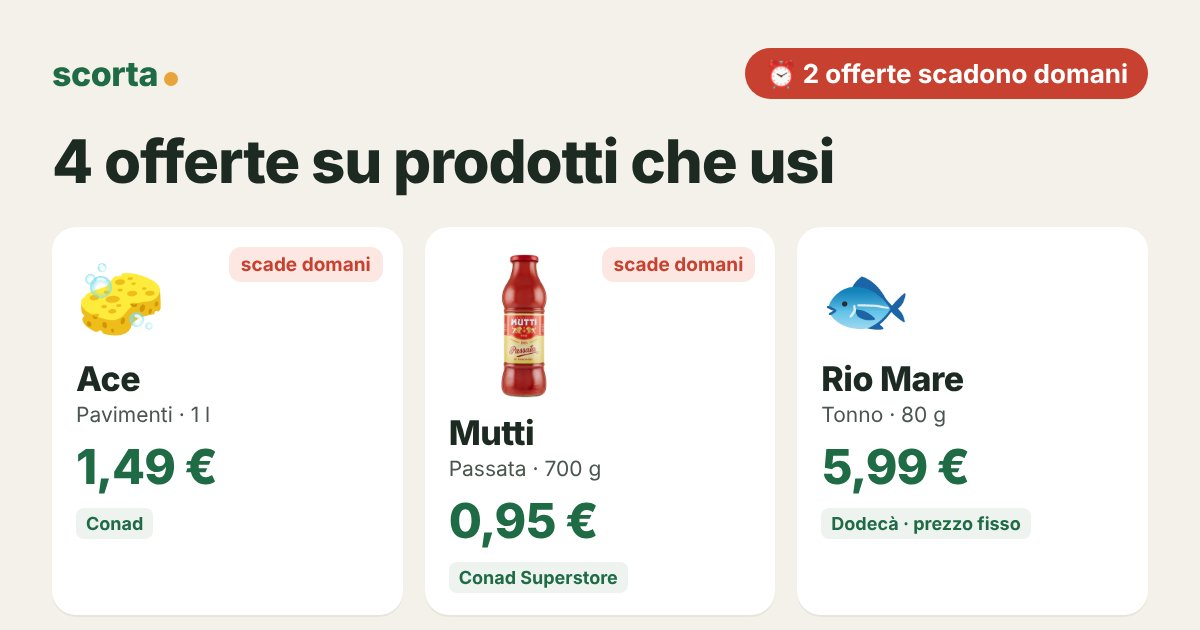
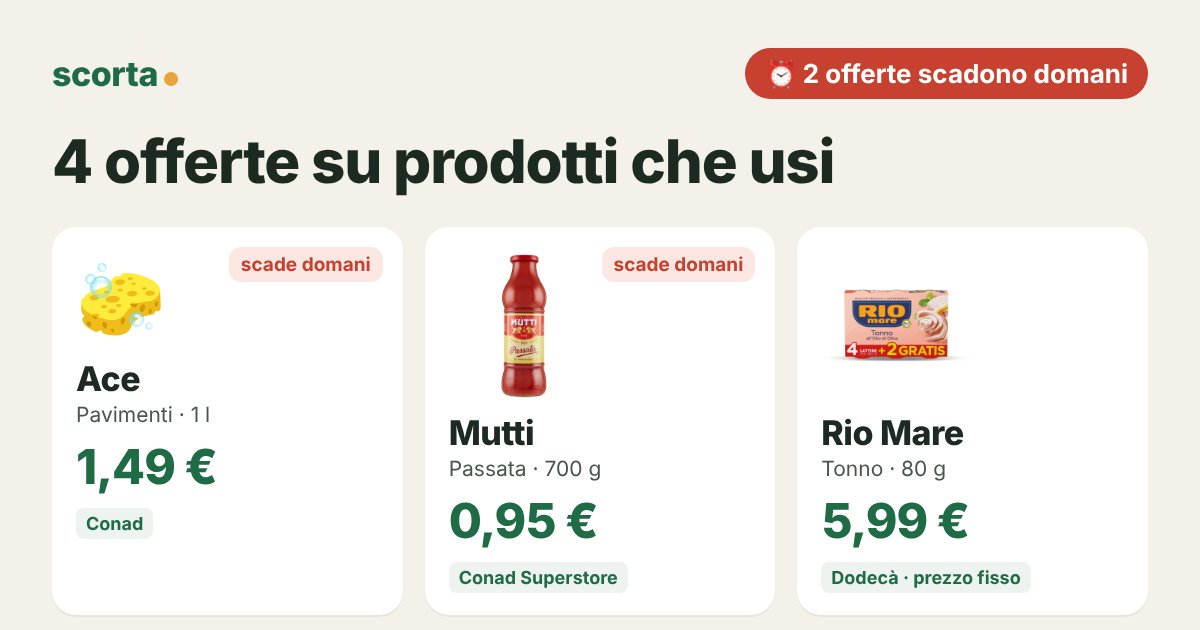
Pagine offerte 2026-11-03
Claude-Session: https://claude.ai/code/session_012BnByD7nnfoHswjF7TKs2L

Changed region(s): [[0.6783, 0.4222, 0.8633, 0.8746], [0.6783, 0.9048, 0.8633, 0.9349]]

diff --git a/o/7c19c5b6/index.html b/o/7c19c5b6/index.html
@@ -6,4 +6,4 @@
 <style>body{margin:0;font-family:-apple-system,system-ui,sans-serif;background:#F4F1EA;color:#1d2a22}main{max-width:560px;margin:auto;padding:16px}img{width:100%;border-radius:14px}
 ul{list-style:none;padding:0}li{display:flex;gap:10px;align-items:center;background:#fff;border-radius:12px;padding:10px 12px;margin:8px 0}.ic{font-size:26px}.th{width:44px;height:44px;object-fit:contain;background:#fff}li div:nth-child(2){flex:1}small{color:#6b746e}.pr{text-align:right;white-space:nowrap}s{color:#8a8f8b;font-size:13px}
 .btn{display:block;text-align:center;background:#1f6b45;color:#fff;font-weight:700;font-size:18px;padding:16px;border-radius:14px;text-decoration:none;margin:18px 0}.map{display:block;color:#1f6b45;margin:6px 0;text-decoration:none}</style></head>
-<body><main><img src="card.jpg" alt=""><a class="btn" href="https://tally.so/r/OQQV7k?f=F003&amp;a=A039,A040,A041,A042">✅ Segna cosa hai comprato</a><ul><li><span class=ic>🧽</span><div><b>Ace pavimenti igienizzante lavanda/talco 1 l</b><br><small>Conad · scade domani</small></div><div class="pr"><b>1,49 €</b></div></li><li><img class=th src=../../img/L027.jpg><div><b>Mutti passata di pomodoro 700 g</b><br><small>Conad Superstore · scade domani</small></div><div class="pr"><b>0,95 €</b></div></li><li><span class=ic>🐟</span><div><b>Rio mare Tonno all&#x27;Olio di Oliva 4 + 2 Gratis x 80 g</b><br><small>Dodecà · prezzo fisso</small></div><div class="pr"><b>5,99 €</b></div></li><li><span class=ic>🍽</span><div><b>Fairy Pastiglie Lavastoviglie Platinum All in One, Detersivo Piatti Limone, 45 Capsule 671 g</b><br><small>Dodecà · prezzo fisso</small></div><div class="pr"><b>11,69 €</b></div></li></ul><a class="map" href="https://www.google.com/maps/search/?api=1&query=Conad%20Corso%20Cirillo%2027%20Grumo%20Nevano">📍 Conad · Corso Cirillo 27, Grumo Nevano</a><a class="map" href="https://www.google.com/maps/search/?api=1&query=Conad%20Superstore%20Via%20Barraccone%20Snc%20Sant%27Arpino">📍 Conad Superstore · Via Barraccone Snc, Sant&#x27;Arpino</a><a class="map" href="https://www.google.com/maps/search/?api=1&query=Dodec%C3%A0%20Via%20Sette%20Re%2C%2077%20Arzano">📍 Dodecà · Via Sette Re, 77, Arzano</a><p><small>Prezzi e scadenze dai volantini delle insegne. Rispondi STOP su WhatsApp per non ricevere più avvisi.</small></p></main></body></html>
+<body><main><img src="card.jpg" alt=""><a class="btn" href="https://tally.so/r/OQQV7k?f=F003&amp;a=A039,A040,A041,A042">✅ Segna cosa hai comprato</a><ul><li><span class=ic>🧽</span><div><b>Ace pavimenti igienizzante lavanda/talco 1 l</b><br><small>Conad · scade domani</small></div><div class="pr"><b>1,49 €</b></div></li><li><img class=th src=../../img/L027.jpg><div><b>Mutti passata di pomodoro 700 g</b><br><small>Conad Superstore · scade domani</small></div><div class="pr"><b>0,95 €</b></div></li><li><img class=th src=../../img/deco_74M07931P348_301.jpg><div><b>Rio mare Tonno all&#x27;Olio di Oliva 4 + 2 Gratis x 80 g</b><br><small>Dodecà · prezzo fisso</small></div><div class="pr"><b>5,99 €</b></div></li><li><span class=ic>🍽</span><div><b>Fairy Pastiglie Lavastoviglie Platinum All in One, Detersivo Piatti Limone, 45 Capsule 671 g</b><br><small>Dodecà · prezzo fisso</small></div><div class="pr"><b>11,69 €</b></div></li></ul><a class="map" href="https://www.google.com/maps/search/?api=1&query=Conad%20Corso%20Cirillo%2027%20Grumo%20Nevano">📍 Conad · Corso Cirillo 27, Grumo Nevano</a><a class="map" href="https://www.google.com/maps/search/?api=1&query=Conad%20Superstore%20Via%20Barraccone%20Snc%20Sant%27Arpino">📍 Conad Superstore · Via Barraccone Snc, Sant&#x27;Arpino</a><a class="map" href="https://www.google.com/maps/search/?api=1&query=Dodec%C3%A0%20Via%20Sette%20Re%2C%2077%20Arzano">📍 Dodecà · Via Sette Re, 77, Arzano</a><p><small>Prezzi e scadenze dai volantini delle insegne. Rispondi STOP su WhatsApp per non ricevere più avvisi.</small></p></main></body></html>

diff --git a/o/c3072738/index.html b/o/c3072738/index.html
@@ -1,0 +1,9 @@
+<!DOCTYPE html><html lang="it"><head><meta charset="utf-8"><meta name="viewport" content="width=device-width,initial-scale=1">
+<title>Le tue offerte Scorta</title><meta name="robots" content="noindex">
+<meta property="og:title" content="8 offerte su prodotti che usi"><meta property="og:description" content="Le offerte Scorta sui prodotti che usi, nei negozi vicino a te.">
+<meta property="og:image" content="https://scortait.github.io/o/c3072738/card.jpg"><meta property="og:image:width" content="1200"><meta property="og:image:height" content="630"><meta property="og:image:type" content="image/jpeg">
+<meta property="og:url" content="https://scortait.github.io/o/c3072738/"><meta property="og:site_name" content="Scorta"><meta property="og:type" content="website">
+<style>body{margin:0;font-family:-apple-system,system-ui,sans-serif;background:#F4F1EA;color:#1d2a22}main{max-width:560px;margin:auto;padding:16px}img{width:100%;border-radius:14px}
+ul{list-style:none;padding:0}li{display:flex;gap:10px;align-items:center;background:#fff;border-radius:12px;padding:10px 12px;margin:8px 0}.ic{font-size:26px}.th{width:44px;height:44px;object-fit:contain;background:#fff}li div:nth-child(2){flex:1}small{color:#6b746e}.pr{text-align:right;white-space:nowrap}s{color:#8a8f8b;font-size:13px}
+.btn{display:block;text-align:center;background:#1f6b45;color:#fff;font-weight:700;font-size:18px;padding:16px;border-radius:14px;text-decoration:none;margin:18px 0}.map{display:block;color:#1f6b45;margin:6px 0;text-decoration:none}</style></head>
+<body><main><img src="card.jpg" alt=""><a class="btn" href="https://tally.so/r/OQQV7k?f=F011&amp;a=A123,A124,A125,A126,A127,A128,A129,A130">✅ Segna cosa hai comprato</a><ul><li><img class=th src=../../img/deco_74M07931P004_301.jpg><div><b>Rummo pasta di semola varie trafile 500 g</b><br><small>Decò Maxistore · fino al 12/11</small></div><div class="pr"><b>0,69 €</b></div></li><li><img class=th src=../../img/deco_74M07931P344_301.jpg><div><b>Borbone caffè miscela Decisa 100+20 cialde</b><br><small>Decò Maxistore · fino al 12/11</small></div><div class="pr"><b>12,90 €</b></div></li><li><img class=th src=../../img/deco_74M07931P258_301.jpg><div><b>Orogel zucchine a fette 450 g</b><br><small>Decò Maxistore · fino al 12/11</small></div><div class="pr"><b>1,49 €</b></div></li><li><img class=th src=../../img/deco_74M07931P245_301.jpg><div><b>Decò legumi ceci / borlotti / cannellini / tondini 360 g</b><br><small>Decò Maxistore · fino al 12/11</small></div><div class="pr"><b>0,89 €</b></div></li><li><img class=th src=../../img/deco_74M07931P428_301.jpg><div><b>Regina carta igienica Camomilla 8 rotoli</b><br><small>Decò Maxistore · fino al 12/11</small></div><div class="pr"><b>2,99 €</b></div></li><li><img class=th src=../../img/eurospin_10770901.jpg><div><b>Dolciando frollini con cacao e nocciole 700 g</b><br><small>Eurospin · dal 5/11 al 15/11</small></div><div class="pr"><s>2,19 €</s> <b>1,69 €</b></div></li><li><img class=th src=../../img/eurospin_18556901.jpg><div><b>Blues cola lemon 1,5 l</b><br><small>Eurospin · dal 5/11 al 15/11</small></div><div class="pr"><s>0,79 €</s> <b>0,59 €</b></div></li><li><img class=th src=../../img/eurospin_14271801.jpg><div><b>Delizie Dal Sole spinaci fogliolina 450 g</b><br><small>Eurospin · dal 5/11 al 15/11</small></div><div class="pr"><s>1,19 €</s> <b>0,99 €</b></div></li></ul><a class="map" href="https://www.google.com/maps/search/?api=1&query=Dec%C3%B2%20Maxistore%20Viale%20Giochi%20del%20Mediterraneo%20Napoli">📍 Decò Maxistore · Viale Giochi del Mediterraneo, Napoli</a><a class="map" href="https://www.google.com/maps/search/?api=1&query=Eurospin%20Via%20Cavalleggeri%20d%27Aosta%2C%2011%20Napoli">📍 Eurospin · Via Cavalleggeri d&#x27;Aosta, 11, Napoli</a><p><small>Prezzi e scadenze dai volantini delle insegne. Rispondi STOP su WhatsApp per non ricevere più avvisi.</small></p></main></body></html>

diff --git a/o/7c9cdeb2/index.html b/o/7c9cdeb2/index.html
@@ -1,0 +1,9 @@
+<!DOCTYPE html><html lang="it"><head><meta charset="utf-8"><meta name="viewport" content="width=device-width,initial-scale=1">
+<title>Le tue offerte Scorta</title><meta name="robots" content="noindex">
+<meta property="og:title" content="8 offerte su prodotti che usi"><meta property="og:description" content="Le offerte Scorta sui prodotti che usi, nei negozi vicino a te.">
+<meta property="og:image" content="https://scortait.github.io/o/7c9cdeb2/card.jpg"><meta property="og:image:width" content="1200"><meta property="og:image:height" content="630"><meta property="og:image:type" content="image/jpeg">
+<meta property="og:url" content="https://scortait.github.io/o/7c9cdeb2/"><meta property="og:site_name" content="Scorta"><meta property="og:type" content="website">
+<style>body{margin:0;font-family:-apple-system,system-ui,sans-serif;background:#F4F1EA;color:#1d2a22}main{max-width:560px;margin:auto;padding:16px}img{width:100%;border-radius:14px}
+ul{list-style:none;padding:0}li{display:flex;gap:10px;align-items:center;background:#fff;border-radius:12px;padding:10px 12px;margin:8px 0}.ic{font-size:26px}.th{width:44px;height:44px;object-fit:contain;background:#fff}li div:nth-child(2){flex:1}small{color:#6b746e}.pr{text-align:right;white-space:nowrap}s{color:#8a8f8b;font-size:13px}
+.btn{display:block;text-align:center;background:#1f6b45;color:#fff;font-weight:700;font-size:18px;padding:16px;border-radius:14px;text-decoration:none;margin:18px 0}.map{display:block;color:#1f6b45;margin:6px 0;text-decoration:none}</style></head>
+<body><main><img src="card.jpg" alt=""><a class="btn" href="https://tally.so/r/OQQV7k?f=F003&amp;a=A087,A088,A089,A090,A091,A092,A093,A094">✅ Segna cosa hai comprato</a><ul><li><img class=th src=../../img/L027.jpg><div><b>Mutti passata di pomodoro 700 g</b><br><small>Decò Supermercato · fino al 12/11</small></div><div class="pr"><b>1,00 €</b></div></li><li><img class=th src=../../img/deco_74M07931P348_301.jpg><div><b>Rio Mare tonno all&#x27;olio di oliva 4+2 gratis x 80 g</b><br><small>Decò Supermercato · fino al 12/11</small></div><div class="pr"><b>5,99 €</b></div></li><li><img class=th src=../../img/deco_74M07931P298_301.jpg><div><b>Coca-Cola / Fanta / Sprite vari tipi 6x33 cl</b><br><small>Decò Supermercato · fino al 12/11</small></div><div class="pr"><b>3,99 €</b></div></li><li><img class=th src=../../img/deco_74M07931P330_301.jpg><div><b>Svelto Titanium fiori di pesco / fresh lime / limone 650 ml</b><br><small>Decò Supermercato · fino al 12/11</small></div><div class="pr"><b>1,79 €</b></div></li><li><span class=ic>🧽</span><div><b>Ace pavimenti igienizzante talco / lavanda / stop germs 1 l</b><br><small>Decò Supermercato · fino al 12/11</small></div><div class="pr"><b>1,20 €</b></div></li><li><img class=th src=../../img/deco_74M07931P211_301.jpg><div><b>Granarolo latte UHT parzialmente scremato 1 l</b><br><small>Decò Supermercato · fino al 12/11</small></div><div class="pr"><b>0,99 €</b></div></li><li><img class=th src=../../img/deco_74M07931P253_301.jpg><div><b>Findus pisellini primavera 1,2 kg</b><br><small>Decò Supermercato · fino al 12/11</small></div><div class="pr"><b>5,39 €</b></div></li><li><span class=ic>🍪</span><div><b>Mulino Bianco Spicchi di Sole Biscotti Dorati al Forno 400g</b><br><small>Dodecà · prezzo fisso</small></div><div class="pr"><b>1,69 €</b></div></li></ul><a class="map" href="https://www.google.com/maps/search/?api=1&query=Dec%C3%B2%20Supermercato%20Viale%20Pimentel%20de%20Fonseca%20Eleonora%2C%2014%20Grumo%20Nevano">📍 Decò Supermercato · Viale Pimentel de Fonseca Eleonora, 14, Grumo Nevano</a><a class="map" href="https://www.google.com/maps/search/?api=1&query=Dodec%C3%A0%20Via%20Sette%20Re%2C%2077%20Arzano">📍 Dodecà · Via Sette Re, 77, Arzano</a><p><small>Prezzi e scadenze dai volantini delle insegne. Rispondi STOP su WhatsApp per non ricevere più avvisi.</small></p></main></body></html>

diff --git a/o/96d8345a/index.html b/o/96d8345a/index.html
@@ -1,0 +1,9 @@
+<!DOCTYPE html><html lang="it"><head><meta charset="utf-8"><meta name="viewport" content="width=device-width,initial-scale=1">
+<title>Le tue offerte Scorta</title><meta name="robots" content="noindex">
+<meta property="og:title" content="6 offerte su prodotti che usi"><meta property="og:description" content="Le offerte Scorta sui prodotti che usi, nei negozi vicino a te.">
+<meta property="og:image" content="https://scortait.github.io/o/96d8345a/card.jpg"><meta property="og:image:width" content="1200"><meta property="og:image:height" content="630"><meta property="og:image:type" content="image/jpeg">
+<meta property="og:url" content="https://scortait.github.io/o/96d8345a/"><meta property="og:site_name" content="Scorta"><meta property="og:type" content="website">
+<style>body{margin:0;font-family:-apple-system,system-ui,sans-serif;background:#F4F1EA;color:#1d2a22}main{max-width:560px;margin:auto;padding:16px}img{width:100%;border-radius:14px}
+ul{list-style:none;padding:0}li{display:flex;gap:10px;align-items:center;background:#fff;border-radius:12px;padding:10px 12px;margin:8px 0}.ic{font-size:26px}.th{width:44px;height:44px;object-fit:contain;background:#fff}li div:nth-child(2){flex:1}small{color:#6b746e}.pr{text-align:right;white-space:nowrap}s{color:#8a8f8b;font-size:13px}
+.btn{display:block;text-align:center;background:#1f6b45;color:#fff;font-weight:700;font-size:18px;padding:16px;border-radius:14px;text-decoration:none;margin:18px 0}.map{display:block;color:#1f6b45;margin:6px 0;text-decoration:none}</style></head>
+<body><main><img src="card.jpg" alt=""><a class="btn" href="https://tally.so/r/OQQV7k?f=F007&amp;a=A108,A109,A110,A111,A112,A113">✅ Segna cosa hai comprato</a><ul><li><img class=th src=../../img/L027.jpg><div><b>Mutti passata di pomodoro 700 g</b><br><small>Decò Supermercato · fino al 12/11</small></div><div class="pr"><b>1,00 €</b></div></li><li><span class=ic>🍝</span><div><b>De Cecco pasta di semola Le Specialità varie trafile 500 g</b><br><small>Eté · fino al 12/11</small></div><div class="pr"><b>1,49 €</b></div></li><li><span class=ic>🐟</span><div><b>Nostromo tonno Leggero EVO 3x60 g</b><br><small>Eté · fino al 12/11</small></div><div class="pr"><b>2,39 €</b></div></li><li><span class=ic>🍪</span><div><b>Nutella Ferrero 450 g</b><br><small>Eté · fino al 12/11</small></div><div class="pr"><b>3,99 €</b></div></li><li><span class=ic>🍪</span><div><b>Balocco biscotti Saracene / Faccine / Girandole / Triangolosi / Gocciolotti / Fagottini 700 g</b><br><small>Eté · fino al 12/11</small></div><div class="pr"><b>2,39 €</b></div></li><li><span class=ic>💧</span><div><b>San Benedetto Acqua Naturale dal Parco della Majella Ecogreen 6 x 2 L</b><br><small>Dodecà · prezzo fisso</small></div><div class="pr"><b>2,28 €</b></div></li></ul><a class="map" href="https://www.google.com/maps/search/?api=1&query=Dec%C3%B2%20Supermercato%20Via%20Napoli%2C%20127%20Mugnano%20di%20Napoli">📍 Decò Supermercato · Via Napoli, 127, Mugnano di Napoli</a><a class="map" href="https://www.google.com/maps/search/?api=1&query=Et%C3%A9%20Via%20Circumvallazione%20Esterna%2C%2020/A%20Melito%20di%20Napoli">📍 Eté · Via Circumvallazione Esterna, 20/A, Melito di Napoli</a><a class="map" href="https://www.google.com/maps/search/?api=1&query=Dodec%C3%A0%20Via%20Giuseppe%20di%20Vittorio%20SNC%20Mugnano%20di%20Napoli">📍 Dodecà · Via Giuseppe di Vittorio SNC, Mugnano di Napoli</a><p><small>Prezzi e scadenze dai volantini delle insegne. Rispondi STOP su WhatsApp per non ricevere più avvisi.</small></p></main></body></html>

diff --git a/o/c72d6d3a/index.html b/o/c72d6d3a/index.html
@@ -1,0 +1,9 @@
+<!DOCTYPE html><html lang="it"><head><meta charset="utf-8"><meta name="viewport" content="width=device-width,initial-scale=1">
+<title>Le tue offerte Scorta</title><meta name="robots" content="noindex">
+<meta property="og:title" content="6 offerte su prodotti che usi"><meta property="og:description" content="Le offerte Scorta sui prodotti che usi, nei negozi vicino a te.">
+<meta property="og:image" content="https://scortait.github.io/o/c72d6d3a/card.jpg"><meta property="og:image:width" content="1200"><meta property="og:image:height" content="630"><meta property="og:image:type" content="image/jpeg">
+<meta property="og:url" content="https://scortait.github.io/o/c72d6d3a/"><meta property="og:site_name" content="Scorta"><meta property="og:type" content="website">
+<style>body{margin:0;font-family:-apple-system,system-ui,sans-serif;background:#F4F1EA;color:#1d2a22}main{max-width:560px;margin:auto;padding:16px}img{width:100%;border-radius:14px}
+ul{list-style:none;padding:0}li{display:flex;gap:10px;align-items:center;background:#fff;border-radius:12px;padding:10px 12px;margin:8px 0}.ic{font-size:26px}.th{width:44px;height:44px;object-fit:contain;background:#fff}li div:nth-child(2){flex:1}small{color:#6b746e}.pr{text-align:right;white-space:nowrap}s{color:#8a8f8b;font-size:13px}
+.btn{display:block;text-align:center;background:#1f6b45;color:#fff;font-weight:700;font-size:18px;padding:16px;border-radius:14px;text-decoration:none;margin:18px 0}.map{display:block;color:#1f6b45;margin:6px 0;text-decoration:none}</style></head>
+<body><main><img src="card.jpg" alt=""><a class="btn" href="https://tally.so/r/OQQV7k?f=F012&amp;a=A131,A132,A133,A134,A135,A136">✅ Segna cosa hai comprato</a><ul><li><span class=ic>🍝</span><div><b>La Molisana pasta di semola formati normali 500 g</b><br><small>Conad Superstore · scade domani</small></div><div class="pr"><b>0,79 €</b></div></li><li><img class=th src=../../img/deco_74M07931P316_301.jpg><div><b>Neutro Roberts bagnodoccia varie profumazioni 450 ml</b><br><small>Decò Superstore · fino al 12/11</small></div><div class="pr"><b>1,89 €</b></div></li><li><img class=th src=../../img/deco_74M07931P428_301.jpg><div><b>Regina carta igienica Camomilla 8 rotoli</b><br><small>Decò Superstore · fino al 12/11</small></div><div class="pr"><b>2,99 €</b></div></li><li><span class=ic>🐟</span><div><b>Rio Mare filetti di tonno vari gusti 130 g</b><br><small>Eté · fino al 12/11</small></div><div class="pr"><b>3,39 €</b></div></li><li><span class=ic>🍪</span><div><b>Nutella Ferrero 450 g</b><br><small>Eté · fino al 12/11</small></div><div class="pr"><b>3,99 €</b></div></li><li><span class=ic>🧴</span><div><b>Sunsilk shampoo varie profumazioni 250 ml</b><br><small>Eté · fino al 12/11</small></div><div class="pr"><b>2,19 €</b></div></li></ul><a class="map" href="https://www.google.com/maps/search/?api=1&query=Conad%20Superstore%20Via%20Barraccone%20Snc%20Sant%27Arpino">📍 Conad Superstore · Via Barraccone Snc, Sant&#x27;Arpino</a><a class="map" href="https://www.google.com/maps/search/?api=1&query=Dec%C3%B2%20Superstore%20Via%20Salvatore%20Lanzano%20Orta%20di%20Atella">📍 Decò Superstore · Via Salvatore Lanzano, Orta di Atella</a><a class="map" href="https://www.google.com/maps/search/?api=1&query=Et%C3%A9%20Via%20M.%20Atellani%2C%202%20Sant%27Arpino">📍 Eté · Via M. Atellani, 2, Sant&#x27;Arpino</a><p><small>Prezzi e scadenze dai volantini delle insegne. Rispondi STOP su WhatsApp per non ricevere più avvisi.</small></p></main></body></html>

diff --git a/o/39e07f55/index.html b/o/39e07f55/index.html
@@ -1,0 +1,9 @@
+<!DOCTYPE html><html lang="it"><head><meta charset="utf-8"><meta name="viewport" content="width=device-width,initial-scale=1">
+<title>Le tue offerte Scorta</title><meta name="robots" content="noindex">
+<meta property="og:title" content="5 offerte su prodotti che usi"><meta property="og:description" content="Le offerte Scorta sui prodotti che usi, nei negozi vicino a te.">
+<meta property="og:image" content="https://scortait.github.io/o/39e07f55/card.jpg"><meta property="og:image:width" content="1200"><meta property="og:image:height" content="630"><meta property="og:image:type" content="image/jpeg">
+<meta property="og:url" content="https://scortait.github.io/o/39e07f55/"><meta property="og:site_name" content="Scorta"><meta property="og:type" content="website">
+<style>body{margin:0;font-family:-apple-system,system-ui,sans-serif;background:#F4F1EA;color:#1d2a22}main{max-width:560px;margin:auto;padding:16px}img{width:100%;border-radius:14px}
+ul{list-style:none;padding:0}li{display:flex;gap:10px;align-items:center;background:#fff;border-radius:12px;padding:10px 12px;margin:8px 0}.ic{font-size:26px}.th{width:44px;height:44px;object-fit:contain;background:#fff}li div:nth-child(2){flex:1}small{color:#6b746e}.pr{text-align:right;white-space:nowrap}s{color:#8a8f8b;font-size:13px}
+.btn{display:block;text-align:center;background:#1f6b45;color:#fff;font-weight:700;font-size:18px;padding:16px;border-radius:14px;text-decoration:none;margin:18px 0}.map{display:block;color:#1f6b45;margin:6px 0;text-decoration:none}</style></head>
+<body><main><img src="card.jpg" alt=""><a class="btn" href="https://tally.so/r/OQQV7k?f=F004&amp;a=A095,A096,A097,A098,A099">✅ Segna cosa hai comprato</a><ul><li><span class=ic>🧴</span><div><b>Felce Azzurra bagnoschiuma 650 ml, -24%</b><br><small>Lidl · scade domani</small></div><div class="pr"><b>1,89 €</b></div></li><li><img class=th src=../../img/deco_74M07931P040_301.jpg><div><b>Finish Powerball Ultimate Plus 48 tabs</b><br><small>Decò Supermercato · fino al 12/11</small></div><div class="pr"><b>8,59 €</b></div></li><li><img class=th src=../../img/deco_74M07931P039_301.jpg><div><b>Foxy carta igienica Gran Trapuntata 4 veli 4 rotoli</b><br><small>Decò Supermercato · fino al 12/11</small></div><div class="pr"><b>1,99 €</b></div></li><li><img class=th src=../../img/deco_74M07931P253_301.jpg><div><b>Findus pisellini primavera 1,2 kg</b><br><small>Decò Supermercato · fino al 12/11</small></div><div class="pr"><b>5,39 €</b></div></li><li><span class=ic>🫧</span><div><b>Lenor ammorbidente risveglio primaverile / oro e fiori di vaniglia 55 lavaggi 1,155 l</b><br><small>MD · fino al 15/11</small></div><div class="pr"><s>5,69 €</s> <b>3,99 €</b></div></li></ul><a class="map" href="https://www.google.com/maps/search/?api=1&query=Lidl%20Via%20Giugliano%20Mugnano%2C%20137%20Villaricca">📍 Lidl · Via Giugliano Mugnano, 137, Villaricca</a><a class="map" href="https://www.google.com/maps/search/?api=1&query=Dec%C3%B2%20Supermercato%20Via%20Ernesto%20Che%20Guevara%2C%2036%20Marano%20di%20Napoli">📍 Decò Supermercato · Via Ernesto Che Guevara, 36, Marano di Napoli</a><a class="map" href="https://www.google.com/maps/search/?api=1&query=MD%20C.SO%20ITALIA%2055%20Marano%20di%20Napoli">📍 MD · C.SO ITALIA 55, Marano di Napoli</a><p><small>Prezzi e scadenze dai volantini delle insegne. Rispondi STOP su WhatsApp per non ricevere più avvisi.</small></p></main></body></html>

diff --git a/o/22da7bd9/index.html b/o/22da7bd9/index.html
@@ -1,0 +1,9 @@
+<!DOCTYPE html><html lang="it"><head><meta charset="utf-8"><meta name="viewport" content="width=device-width,initial-scale=1">
+<title>Le tue offerte Scorta</title><meta name="robots" content="noindex">
+<meta property="og:title" content="4 offerte su prodotti che usi"><meta property="og:description" content="Le offerte Scorta sui prodotti che usi, nei negozi vicino a te.">
+<meta property="og:image" content="https://scortait.github.io/o/22da7bd9/card.jpg"><meta property="og:image:width" content="1200"><meta property="og:image:height" content="630"><meta property="og:image:type" content="image/jpeg">
+<meta property="og:url" content="https://scortait.github.io/o/22da7bd9/"><meta property="og:site_name" content="Scorta"><meta property="og:type" content="website">
+<style>body{margin:0;font-family:-apple-system,system-ui,sans-serif;background:#F4F1EA;color:#1d2a22}main{max-width:560px;margin:auto;padding:16px}img{width:100%;border-radius:14px}
+ul{list-style:none;padding:0}li{display:flex;gap:10px;align-items:center;background:#fff;border-radius:12px;padding:10px 12px;margin:8px 0}.ic{font-size:26px}.th{width:44px;height:44px;object-fit:contain;background:#fff}li div:nth-child(2){flex:1}small{color:#6b746e}.pr{text-align:right;white-space:nowrap}s{color:#8a8f8b;font-size:13px}
+.btn{display:block;text-align:center;background:#1f6b45;color:#fff;font-weight:700;font-size:18px;padding:16px;border-radius:14px;text-decoration:none;margin:18px 0}.map{display:block;color:#1f6b45;margin:6px 0;text-decoration:none}</style></head>
+<body><main><img src="card.jpg" alt=""><a class="btn" href="https://tally.so/r/OQQV7k?f=F005&amp;a=A100,A101,A102,A103">✅ Segna cosa hai comprato</a><ul><li><img class=th src=../../img/deco_74M07931P330_301.jpg><div><b>Svelto Titanium fiori di pesco / fresh lime / limone 650 ml</b><br><small>Decò Market · fino al 12/11</small></div><div class="pr"><b>1,79 €</b></div></li><li><img class=th src=../../img/deco_74M07931P038_301.jpg><div><b>Mentadent dentifricio 2x75 ml</b><br><small>Decò Market · fino al 12/11</small></div><div class="pr"><b>2,69 €</b></div></li><li><img class=th src=../../img/deco_74M07931P253_301.jpg><div><b>Findus pisellini primavera 1,2 kg</b><br><small>Decò Market · fino al 12/11</small></div><div class="pr"><b>5,39 €</b></div></li><li><img class=th src=../../img/deco_74M07931P428_301.jpg><div><b>Regina carta igienica Camomilla 8 rotoli</b><br><small>Decò Supermercato · fino al 12/11</small></div><div class="pr"><b>2,99 €</b></div></li></ul><a class="map" href="https://www.google.com/maps/search/?api=1&query=Dec%C3%B2%20Market%20Via%20Vincenzo%20Arangio%20Ruiz%2C%2065%20Napoli">📍 Decò Market · Via Vincenzo Arangio Ruiz, 65, Napoli</a><a class="map" href="https://www.google.com/maps/search/?api=1&query=Dec%C3%B2%20Supermercato%20Via%20Consalvo%2C%2093%20Napoli">📍 Decò Supermercato · Via Consalvo, 93, Napoli</a><p><small>Prezzi e scadenze dai volantini delle insegne. Rispondi STOP su WhatsApp per non ricevere più avvisi.</small></p></main></body></html>

diff --git a/o/e712f2d4/index.html b/o/e712f2d4/index.html
@@ -1,0 +1,9 @@
+<!DOCTYPE html><html lang="it"><head><meta charset="utf-8"><meta name="viewport" content="width=device-width,initial-scale=1">
+<title>Le tue offerte Scorta</title><meta name="robots" content="noindex">
+<meta property="og:title" content="4 offerte su prodotti che usi"><meta property="og:description" content="Le offerte Scorta sui prodotti che usi, nei negozi vicino a te.">
+<meta property="og:image" content="https://scortait.github.io/o/e712f2d4/card.jpg"><meta property="og:image:width" content="1200"><meta property="og:image:height" content="630"><meta property="og:image:type" content="image/jpeg">
+<meta property="og:url" content="https://scortait.github.io/o/e712f2d4/"><meta property="og:site_name" content="Scorta"><meta property="og:type" content="website">
+<style>body{margin:0;font-family:-apple-system,system-ui,sans-serif;background:#F4F1EA;color:#1d2a22}main{max-width:560px;margin:auto;padding:16px}img{width:100%;border-radius:14px}
+ul{list-style:none;padding:0}li{display:flex;gap:10px;align-items:center;background:#fff;border-radius:12px;padding:10px 12px;margin:8px 0}.ic{font-size:26px}.th{width:44px;height:44px;object-fit:contain;background:#fff}li div:nth-child(2){flex:1}small{color:#6b746e}.pr{text-align:right;white-space:nowrap}s{color:#8a8f8b;font-size:13px}
+.btn{display:block;text-align:center;background:#1f6b45;color:#fff;font-weight:700;font-size:18px;padding:16px;border-radius:14px;text-decoration:none;margin:18px 0}.map{display:block;color:#1f6b45;margin:6px 0;text-decoration:none}</style></head>
+<body><main><img src="card.jpg" alt=""><a class="btn" href="https://tally.so/r/OQQV7k?f=F009&amp;a=A117,A118,A119,A120">✅ Segna cosa hai comprato</a><ul><li><img class=th src=../../img/L027.jpg><div><b>Mutti passata di pomodoro 700 g</b><br><small>Decò Supermercato · fino al 12/11</small></div><div class="pr"><b>1,00 €</b></div></li><li><img class=th src=../../img/deco_74M07931P428_301.jpg><div><b>Regina carta igienica Camomilla 8 rotoli</b><br><small>Decò Supermercato · fino al 12/11</small></div><div class="pr"><b>2,99 €</b></div></li><li><img class=th src=../../img/deco_74M07931P038_301.jpg><div><b>Mentadent dentifricio 2x75 ml</b><br><small>Decò Supermercato · fino al 12/11</small></div><div class="pr"><b>2,69 €</b></div></li><li><span class=ic>🫧</span><div><b>Coccolino aria di primavera / delicato e soffice 87 lavaggi 1827 ml</b><br><small>MD · fino al 15/11</small></div><div class="pr"><s>4,99 €</s> <b>3,99 €</b></div></li></ul><a class="map" href="https://www.google.com/maps/search/?api=1&query=Dec%C3%B2%20Supermercato%20Via%20Ernesto%20Che%20Guevara%2C%2036%20Marano%20di%20Napoli">📍 Decò Supermercato · Via Ernesto Che Guevara, 36, Marano di Napoli</a><a class="map" href="https://www.google.com/maps/search/?api=1&query=MD%20C.SO%20ITALIA%2055%20Marano%20di%20Napoli">📍 MD · C.SO ITALIA 55, Marano di Napoli</a><p><small>Prezzi e scadenze dai volantini delle insegne. Rispondi STOP su WhatsApp per non ricevere più avvisi.</small></p></main></body></html>

diff --git a/o/e9b72d36/index.html b/o/e9b72d36/index.html
@@ -1,0 +1,9 @@
+<!DOCTYPE html><html lang="it"><head><meta charset="utf-8"><meta name="viewport" content="width=device-width,initial-scale=1">
+<title>Le tue offerte Scorta</title><meta name="robots" content="noindex">
+<meta property="og:title" content="3 offerte su prodotti che usi"><meta property="og:description" content="Le offerte Scorta sui prodotti che usi, nei negozi vicino a te.">
+<meta property="og:image" content="https://scortait.github.io/o/e9b72d36/card.jpg"><meta property="og:image:width" content="1200"><meta property="og:image:height" content="630"><meta property="og:image:type" content="image/jpeg">
+<meta property="og:url" content="https://scortait.github.io/o/e9b72d36/"><meta property="og:site_name" content="Scorta"><meta property="og:type" content="website">
+<style>body{margin:0;font-family:-apple-system,system-ui,sans-serif;background:#F4F1EA;color:#1d2a22}main{max-width:560px;margin:auto;padding:16px}img{width:100%;border-radius:14px}
+ul{list-style:none;padding:0}li{display:flex;gap:10px;align-items:center;background:#fff;border-radius:12px;padding:10px 12px;margin:8px 0}.ic{font-size:26px}.th{width:44px;height:44px;object-fit:contain;background:#fff}li div:nth-child(2){flex:1}small{color:#6b746e}.pr{text-align:right;white-space:nowrap}s{color:#8a8f8b;font-size:13px}
+.btn{display:block;text-align:center;background:#1f6b45;color:#fff;font-weight:700;font-size:18px;padding:16px;border-radius:14px;text-decoration:none;margin:18px 0}.map{display:block;color:#1f6b45;margin:6px 0;text-decoration:none}</style></head>
+<body><main><img src="card.jpg" alt=""><a class="btn" href="https://tally.so/r/OQQV7k?f=F014&amp;a=A137,A138,A139">✅ Segna cosa hai comprato</a><ul><li><span class=ic>🍅</span><div><b>La Fiammante passata di pomodoro Dolcissima 690 g</b><br><small>Conad City · scade domani</small></div><div class="pr"><b>0,69 €</b></div></li><li><span class=ic>🥛</span><div><b>Parmalat Zymil latte UHT senza lattosio bottiglia 1 l</b><br><small>MD · fino al 15/11</small></div><div class="pr"><s>1,89 €</s> <b>1,59 €</b></div></li><li><span class=ic>🍽</span><div><b>Finish Ultimate gel lavastoviglie 30 lavaggi</b><br><small>Tigotà · fino al 30/11</small></div><div class="pr"><b>4,48 €</b></div></li></ul><a class="map" href="https://www.google.com/maps/search/?api=1&query=Conad%20City%20Via%20Napoli%2037%20Mugnano%20di%20Napoli">📍 Conad City · Via Napoli 37, Mugnano di Napoli</a><a class="map" href="https://www.google.com/maps/search/?api=1&query=MD%20CORSO%20ITALIA%2065%20Mugnano%20di%20Napoli">📍 MD · CORSO ITALIA 65, Mugnano di Napoli</a><a class="map" href="https://www.google.com/maps/search/?api=1&query=Tigot%C3%A0%20Via%20Antica%20Giardini%20Giugliano%20in%20Campania">📍 Tigotà · Via Antica Giardini, Giugliano in Campania</a><p><small>Prezzi e scadenze dai volantini delle insegne. Rispondi STOP su WhatsApp per non ricevere più avvisi.</small></p></main></body></html>

diff --git a/o/97962c81/index.html b/o/97962c81/index.html
@@ -1,0 +1,9 @@
+<!DOCTYPE html><html lang="it"><head><meta charset="utf-8"><meta name="viewport" content="width=device-width,initial-scale=1">
+<title>Le tue offerte Scorta</title><meta name="robots" content="noindex">
+<meta property="og:title" content="3 offerte su prodotti che usi"><meta property="og:description" content="Le offerte Scorta sui prodotti che usi, nei negozi vicino a te.">
+<meta property="og:image" content="https://scortait.github.io/o/97962c81/card.jpg"><meta property="og:image:width" content="1200"><meta property="og:image:height" content="630"><meta property="og:image:type" content="image/jpeg">
+<meta property="og:url" content="https://scortait.github.io/o/97962c81/"><meta property="og:site_name" content="Scorta"><meta property="og:type" content="website">
+<style>body{margin:0;font-family:-apple-system,system-ui,sans-serif;background:#F4F1EA;color:#1d2a22}main{max-width:560px;margin:auto;padding:16px}img{width:100%;border-radius:14px}
+ul{list-style:none;padding:0}li{display:flex;gap:10px;align-items:center;background:#fff;border-radius:12px;padding:10px 12px;margin:8px 0}.ic{font-size:26px}.th{width:44px;height:44px;object-fit:contain;background:#fff}li div:nth-child(2){flex:1}small{color:#6b746e}.pr{text-align:right;white-space:nowrap}s{color:#8a8f8b;font-size:13px}
+.btn{display:block;text-align:center;background:#1f6b45;color:#fff;font-weight:700;font-size:18px;padding:16px;border-radius:14px;text-decoration:none;margin:18px 0}.map{display:block;color:#1f6b45;margin:6px 0;text-decoration:none}</style></head>
+<body><main><img src="card.jpg" alt=""><a class="btn" href="https://tally.so/r/OQQV7k?f=F008&amp;a=A114,A115,A116">✅ Segna cosa hai comprato</a><ul><li><img class=th src=../../img/deco_74M07931P024_301.jpg><div><b>Granarolo Accadì latte UHT senza lattosio senza grassi / 1% 1 l</b><br><small>Decò Supermercato · fino al 12/11</small></div><div class="pr"><b>1,00 €</b></div></li><li><img class=th src=../../img/deco_74M07931P428_301.jpg><div><b>Regina carta igienica Camomilla 8 rotoli</b><br><small>Decò Supermercato · fino al 12/11</small></div><div class="pr"><b>2,99 €</b></div></li><li><span class=ic>🍪</span><div><b>Mulino Bianco Spicchi di Sole Biscotti Dorati al Forno 400g</b><br><small>Dodecà · prezzo fisso</small></div><div class="pr"><b>1,69 €</b></div></li></ul><a class="map" href="https://www.google.com/maps/search/?api=1&query=Dec%C3%B2%20Supermercato%20Via%20Ernesto%20Che%20Guevara%2C%2036%20Marano%20di%20Napoli">📍 Decò Supermercato · Via Ernesto Che Guevara, 36, Marano di Napoli</a><a class="map" href="https://www.google.com/maps/search/?api=1&query=Dodec%C3%A0%20Via%20Giuseppe%20di%20Vittorio%20SNC%20Mugnano%20di%20Napoli">📍 Dodecà · Via Giuseppe di Vittorio SNC, Mugnano di Napoli</a><p><small>Prezzi e scadenze dai volantini delle insegne. Rispondi STOP su WhatsApp per non ricevere più avvisi.</small></p></main></body></html>

diff --git a/o/1ee47c18/index.html b/o/1ee47c18/index.html
@@ -1,0 +1,9 @@
+<!DOCTYPE html><html lang="it"><head><meta charset="utf-8"><meta name="viewport" content="width=device-width,initial-scale=1">
+<title>Le tue offerte Scorta</title><meta name="robots" content="noindex">
+<meta property="og:title" content="4 offerte su prodotti che usi"><meta property="og:description" content="Le offerte Scorta sui prodotti che usi, nei negozi vicino a te.">
+<meta property="og:image" content="https://scortait.github.io/o/1ee47c18/card.jpg"><meta property="og:image:width" content="1200"><meta property="og:image:height" content="630"><meta property="og:image:type" content="image/jpeg">
+<meta property="og:url" content="https://scortait.github.io/o/1ee47c18/"><meta property="og:site_name" content="Scorta"><meta property="og:type" content="website">
+<style>body{margin:0;font-family:-apple-system,system-ui,sans-serif;background:#F4F1EA;color:#1d2a22}main{max-width:560px;margin:auto;padding:16px}img{width:100%;border-radius:14px}
+ul{list-style:none;padding:0}li{display:flex;gap:10px;align-items:center;background:#fff;border-radius:12px;padding:10px 12px;margin:8px 0}.ic{font-size:26px}.th{width:44px;height:44px;object-fit:contain;background:#fff}li div:nth-child(2){flex:1}small{color:#6b746e}.pr{text-align:right;white-space:nowrap}s{color:#8a8f8b;font-size:13px}
+.btn{display:block;text-align:center;background:#1f6b45;color:#fff;font-weight:700;font-size:18px;padding:16px;border-radius:14px;text-decoration:none;margin:18px 0}.map{display:block;color:#1f6b45;margin:6px 0;text-decoration:none}</style></head>
+<body><main><img src="card.jpg" alt=""><a class="btn" href="https://tally.so/r/OQQV7k?f=F006&amp;a=A104,A105,A106,A107">✅ Segna cosa hai comprato</a><ul><li><img class=th src=../../img/deco_74M07931P004_301.jpg><div><b>Rummo pasta di semola varie trafile 500 g</b><br><small>Decò Maxistore · fino al 12/11</small></div><div class="pr"><b>0,69 €</b></div></li><li><img class=th src=../../img/deco_74M07931P428_301.jpg><div><b>Regina carta igienica Camomilla 8 rotoli</b><br><small>Decò Maxistore · fino al 12/11</small></div><div class="pr"><b>2,99 €</b></div></li><li><img class=th src=../../img/L027.jpg><div><b>Mutti passata di pomodoro 700 g</b><br><small>Decò Maxistore · fino al 12/11</small></div><div class="pr"><b>1,00 €</b></div></li><li><span class=ic>🍪</span><div><b>Saiwa Oro Vitasnella Cereal-Yo vari gusti 253 g</b><br><small>Decò Maxistore · fino al 12/11</small></div><div class="pr"><b>1,75 €</b></div></li></ul><a class="map" href="https://www.google.com/maps/search/?api=1&query=Dec%C3%B2%20Maxistore%20Viale%20Giochi%20del%20Mediterraneo%20Napoli">📍 Decò Maxistore · Viale Giochi del Mediterraneo, Napoli</a><p><small>Prezzi e scadenze dai volantini delle insegne. Rispondi STOP su WhatsApp per non ricevere più avvisi.</small></p></main></body></html>

diff --git a/o/f2e5e1af/index.html b/o/f2e5e1af/index.html
@@ -1,0 +1,9 @@
+<!DOCTYPE html><html lang="it"><head><meta charset="utf-8"><meta name="viewport" content="width=device-width,initial-scale=1">
+<title>Le tue offerte Scorta</title><meta name="robots" content="noindex">
+<meta property="og:title" content="2 offerte su prodotti che usi"><meta property="og:description" content="Le offerte Scorta sui prodotti che usi, nei negozi vicino a te.">
+<meta property="og:image" content="https://scortait.github.io/o/f2e5e1af/card.jpg"><meta property="og:image:width" content="1200"><meta property="og:image:height" content="630"><meta property="og:image:type" content="image/jpeg">
+<meta property="og:url" content="https://scortait.github.io/o/f2e5e1af/"><meta property="og:site_name" content="Scorta"><meta property="og:type" content="website">
+<style>body{margin:0;font-family:-apple-system,system-ui,sans-serif;background:#F4F1EA;color:#1d2a22}main{max-width:560px;margin:auto;padding:16px}img{width:100%;border-radius:14px}
+ul{list-style:none;padding:0}li{display:flex;gap:10px;align-items:center;background:#fff;border-radius:12px;padding:10px 12px;margin:8px 0}.ic{font-size:26px}.th{width:44px;height:44px;object-fit:contain;background:#fff}li div:nth-child(2){flex:1}small{color:#6b746e}.pr{text-align:right;white-space:nowrap}s{color:#8a8f8b;font-size:13px}
+.btn{display:block;text-align:center;background:#1f6b45;color:#fff;font-weight:700;font-size:18px;padding:16px;border-radius:14px;text-decoration:none;margin:18px 0}.map{display:block;color:#1f6b45;margin:6px 0;text-decoration:none}</style></head>
+<body><main><img src="card.jpg" alt=""><a class="btn" href="https://tally.so/r/OQQV7k?f=F002&amp;a=A085,A086">✅ Segna cosa hai comprato</a><ul><li><span class=ic>🫧</span><div><b>Bio Presto detersivo liquido classico / color 65 lavaggi 3,25 l</b><br><small>Eté · fino al 12/11</small></div><div class="pr"><b>4,99 €</b></div></li><li><img class=th src=../../img/deco_74M07931P348_301.jpg><div><b>Rio Mare tonno all&#x27;olio di oliva 4+2 gratis x 80 g</b><br><small>Decò Supermercato · fino al 12/11</small></div><div class="pr"><b>5,99 €</b></div></li></ul><a class="map" href="https://www.google.com/maps/search/?api=1&query=Et%C3%A9%20Via%20G.%20Iervolino%2C%2080%20Poggiomarino">📍 Eté · Via G. Iervolino, 80, Poggiomarino</a><a class="map" href="https://www.google.com/maps/search/?api=1&query=Dec%C3%B2%20Supermercato%20Via%20Fornillo%2C%2019%20Poggiomarino">📍 Decò Supermercato · Via Fornillo, 19, Poggiomarino</a><p><small>Prezzi e scadenze dai volantini delle insegne. Rispondi STOP su WhatsApp per non ricevere più avvisi.</small></p></main></body></html>
